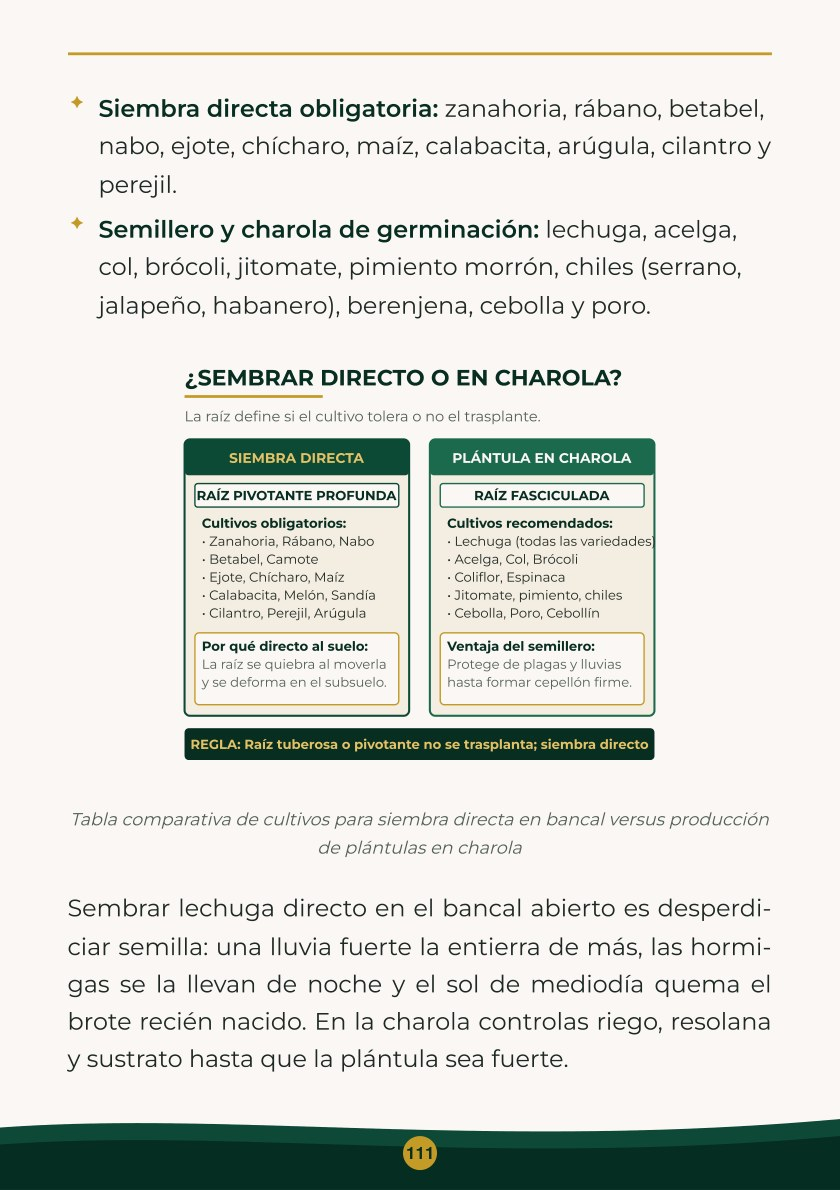
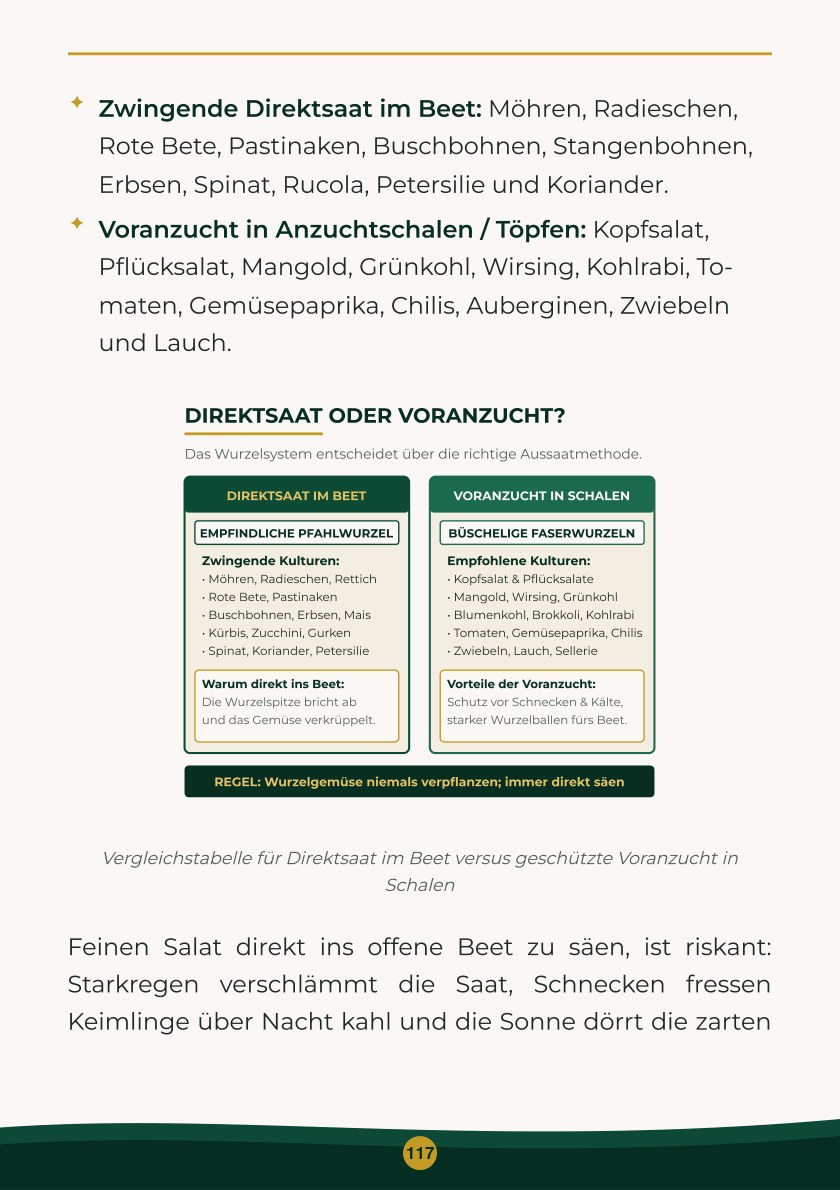
Actualizar carátula oficial y 6 páginas de demostración del PDF LEBENDIGER_GARTEN.pdf

Changed region(s): [[0.0619, 0.0622, 0.9286, 0.9017]]

diff --git a/index.html b/index.html
@@ -7,10 +7,10 @@
 <meta name="description" content="295 Seiten mit der exakten Methode für No-Dig-Beete, eigenen Dünger aus Küchenabfällen und Ernte das ganze Jahr. 9,99 €, symbolischer Beitrag zur Unterstützung des Kanals Einfacher Gemüsegarten.">
 <meta property="og:title" content="Lebendiger Gemüsegarten — Das komplette Praxishandbuch">
 <meta property="og:description" content="No-Dig-Beet ohne Umgraben, kostenloser Dünger aus Küchenabfällen und Aussaatkalender. 295 Seiten für 9,99 € — symbolischer Beitrag zur Unterstützung des Kanals.">
-<meta property="og:image" content="img/capa.jpg?v=3">
+<meta property="og:image" content="img/capa.jpg?v=5">
 <meta property="og:type" content="product">
-<link rel="icon" type="image/png" href="favicon.png?v=4">
-<link rel="apple-touch-icon" href="img/apple-touch-icon.png?v=4">
+<link rel="icon" type="image/png" href="favicon.png?v=5">
+<link rel="apple-touch-icon" href="img/apple-touch-icon.png?v=5">
 <meta name="theme-color" content="#072e22">
 <link rel="preconnect" href="https://fonts.googleapis.com">
 <link rel="preconnect" href="https://fonts.gstatic.com" crossorigin>
@@ -221,9 +221,9 @@ footer a{color:var(--ouro-claro)}
 
 <header class="hero">
   <div class="env">
-    <img class="logo" src="img/logo.png?v=4" alt="Logo des Kanals Einfacher Gemüsegarten">
+    <img class="logo" src="img/logo.png?v=5" alt="Logo des Kanals Einfacher Gemüsegarten">
     <div class="selo">Kanal Einfacher Gemüsegarten</div>
-    <img class="capa" src="img/capa.jpg?v=3" alt="Buchcover Lebendiger Gemüsegarten">
+    <img class="capa" src="img/capa.jpg?v=5" alt="Buchcover Lebendiger Gemüsegarten">
     <h1>Dein Gemüsegarten ist nicht am fehlenden grünen Daumen gescheitert</h1>
     <p class="sub">Er ist an fehlenden exakten Maßen gescheitert. Dieses Handbuch liefert dir die 295 Seiten mit den Maßen, die bisher gefehlt haben.</p>
 
@@ -304,28 +304,28 @@ footer a{color:var(--ouro-claro)}
     <p>Echte Seiten aus dem Handbuch – ungeschönt und direkt aus der Praxis.</p>
     <div class="paginas">
       <figure>
-        <img src="img/p_canteiro.jpg?v=3" alt="Die fünf Schichten des No-Dig-Beetes im Querschnitt" loading="lazy">
+        <img src="img/p_canteiro.jpg?v=5" alt="Der Schichtaufbau des No-Dig-Beetes im Querschnitt" loading="lazy">
         <figcaption>Die 5 Schichten im Querschnitt</figcaption>
       </figure>
       <figure>
-        <img src="img/p_bokashi.jpg?v=3" alt="Aufbau und Funktionsweise des Bokashi-Fermentereimers" loading="lazy">
-        <figcaption>Der Bokashi-Fermentereimer</figcaption>
+        <img src="img/p_bokashi.jpg?v=5" alt="Aufbau und Funktionsweise des Bokashi-Fermenters" loading="lazy">
+        <figcaption>Der Bokashi-Fermenter</figcaption>
       </figure>
       <figure>
-        <img src="img/p_torre.jpg?v=3" alt="Vertikaler PVC-Pflanzturm mit 24 Pflanzplätzen" loading="lazy">
+        <img src="img/p_torre.jpg?v=5" alt="Vertikaler PVC-Pflanzturm DN 160 mit 24 Pflanzplätzen" loading="lazy">
         <figcaption>Vertikaler PVC-Pflanzturm</figcaption>
       </figure>
       <figure>
-        <img src="img/p_ficha.jpg?v=3" alt="Gemüse-Steckbrief mit Kulturanleitung und Abständen" loading="lazy">
+        <img src="img/p_ficha.jpg?v=5" alt="Gemüse-Steckbrief Kopfsalat mit Kulturanleitung und Abständen" loading="lazy">
         <figcaption>Steckbrief für jedes Gemüse</figcaption>
       </figure>
       <figure>
-        <img src="img/p_praga.jpg?v=3" alt="Visueller Leitfaden zur Bestimmung von Pilzkrankheiten und Schädlingen" loading="lazy">
+        <img src="img/p_praga.jpg?v=5" alt="Visueller Leitfaden zur Bestimmung von 4 häufigen Pilzkrankheiten" loading="lazy">
         <figcaption>Schädlings- & Pilzdiagnose</figcaption>
       </figure>
       <figure>
-        <img src="img/p_calendario.jpg?v=3" alt="Vergleichstabelle Direktsaat im Beet vs. Anzuchtplatte" loading="lazy">
-        <figcaption>Direktsaat vs. Anzuchtplatte</figcaption>
+        <img src="img/p_calendario.jpg?v=5" alt="Entscheidungstabelle Direktsaat oder Voranzucht" loading="lazy">
+        <figcaption>Direktsaat vs. Voranzucht</figcaption>
       </figure>
     </div>
   </div>
@@ -381,7 +381,7 @@ footer a{color:var(--ouro-claro)}
 
 <footer>
   <div class="env">
-    <img src="img/logo.png?v=4" alt="" style="width:64px;height:64px;border-radius:50%;margin:0 auto 14px;opacity:.9">
+    <img src="img/logo.png?v=5" alt="" style="width:64px;height:64px;border-radius:50%;margin:0 auto 14px;opacity:.9">
     <p>Kanal Einfacher Gemüsegarten · Ausgabe 2026</p>
     <p style="margin-top:8px"><a href="#">Kontakt</a> · <a href="#">Kaufbedingungen</a> · <a href="#">Datenschutz</a></p>
   </div>
